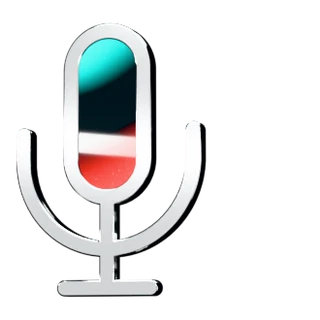
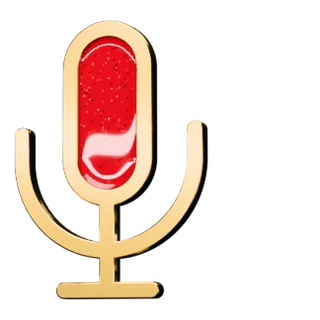
What you'll do: brass soft enamel pins, back to coffee, mic and handshake
The three moment icons are now brass soft enamel pins: one connected
brass piece each, the enamel sitting below the raised lines with a
meniscus, in solid candy teal and red with a fine glitter. The handshake
returns in place of the open door; its outline is closed so each hand is
its own cell. The coffee handle stays open.

Claude-Session: https://claude.ai/code/session_01XKsNEHi8zSBaP9Uzfm5Zkd

Changed region(s): [[0.0312, 0.0625, 0.6562, 0.9375]]

diff --git a/src/styles/join.css b/src/styles/join.css
@@ -138,8 +138,8 @@ html[data-scrolled="true"] .jp-brand img { height: 38px; }
 .jp-col h3 { margin: 0; font-size: 24px; font-weight: 600; line-height: 1.25; letter-spacing: -0.016em; color: var(--t1); }
 .jp-cols.four .jp-col h3 { font-size: 22px; line-height: normal; }
 .jp-col p { margin: 0; font-size: 17px; line-height: 1.55; color: var(--t2); }
-/* What you'll do: three moments told in order, each with its own small enamel
-   pin (a cup, a mic, an open door) in the Labs pin's nickel and cat-eye enamel:
+/* What you'll do: three moments told in order, each with its own small brass
+   soft enamel pin (a cup, a mic, a handshake) in teal and red glitter enamel:
    Cycles renders from the "Moment Icons" scene in LabsPin.blend, in the pin's studio. */
 /* The section's atmosphere: the orb's light behind the row (teal from the
    left, a warm red from the lower right), with the brand grain living only in

diff --git a/README.md b/README.md
@@ -69,7 +69,7 @@ These also need real values:
 
 | Route | What |
 | --- | --- |
-| `/` | The front door: the public Ambassador Program page. The hero is the Ambassador button in live 3D, turning to follow the pointer. It borrows the pin's bundle (`public/join/pin3d.js`: three.js, the pin's studio lighting and renderer, built in the design canvas), hides the pin, and lathes the button from its profile in `LabsPin.blend` in `src/scripts/button3d.ts`, printed with the button's own art (`public/join/button-art.webp`). It loads once the page is idle, on screens 900 px and wider with a mouse and a real GPU; a Cycles still (the "Button Hero" scene) shows on phones, with reduced motion, and without GPU WebGL (`?pin3d=force` overrides that last check for testing). The page is in three chapters, each opened by a full-width cover with its tagline (Spark curiosity, Build community, Inspire confidence). Inside: our why (one manifesto block in the ambassadors' voice, with one effect: it brightens letter by letter, line by line, as you scroll), what you'll do ("Coffee. A mic. A welcome.": three moments told in order, each with its own small enamel pin, a cup, a mic and an open door, rendered in Blender, `public/join/moment-*.webp`), listening and leading (the path, with the button beside the steps on wide screens, then a card on the member community: Supporting and Contributing, either or both), the launch goal with an ambassador's quote, questions, and what it takes. The pin isn't on this page: it's the Contributing Member pin (`/contributing/`), not an ambassador reward. The share image is the button (`public/join/button-share.jpg`). Every "Become an ambassador" goes to `/apply/`. Copy in `content/site/join.json`, media in `public/join/`. `/join/` redirects here. |
+| `/` | The front door: the public Ambassador Program page. The hero is the Ambassador button in live 3D, turning to follow the pointer. It borrows the pin's bundle (`public/join/pin3d.js`: three.js, the pin's studio lighting and renderer, built in the design canvas), hides the pin, and lathes the button from its profile in `LabsPin.blend` in `src/scripts/button3d.ts`, printed with the button's own art (`public/join/button-art.webp`). It loads once the page is idle, on screens 900 px and wider with a mouse and a real GPU; a Cycles still (the "Button Hero" scene) shows on phones, with reduced motion, and without GPU WebGL (`?pin3d=force` overrides that last check for testing). The page is in three chapters, each opened by a full-width cover with its tagline (Spark curiosity, Build community, Inspire confidence). Inside: our why (one manifesto block in the ambassadors' voice, with one effect: it brightens letter by letter, line by line, as you scroll), what you'll do ("Coffee. A mic. A welcome.": three moments told in order, each with its own small brass soft enamel pin, a cup, a mic and a handshake in teal and red glitter enamel, rendered in Blender, `public/join/moment-*.webp`), listening and leading (the path, with the button beside the steps on wide screens, then a card on the member community: Supporting and Contributing, either or both), the launch goal with an ambassador's quote, questions, and what it takes. The pin isn't on this page: it's the Contributing Member pin (`/contributing/`), not an ambassador reward. The share image is the button (`public/join/button-share.jpg`). Every "Become an ambassador" goes to `/apply/`. Copy in `content/site/join.json`, media in `public/join/`. `/join/` redirects here. |
 | `/contributing/` | **Unlisted** (`noindex`, not linked from the program page) until the board approves the levels: the Contributor Community: joining it and working your way up. The hero says so ("Contributor Community") over the Contributing Member pin in live 3D (desktop with a real GPU; Cycles stills otherwise); why here (in person, beginners and experts side by side, learning by doing, local problems); four ways in (make something, take a role, teach what you know, or back it as a Supporting Member), then how the pin works whichever door you take; the way up, one section for the four levels (Contributing Member, Reviewer, Approver, Maintainer), each more workstreams hands-on: on wide screens the stage holds while you scroll and the pin builds level by level, a level picker jumps to any of them, and the pin can be dragged to turn; on phones the picker is tabs over one pin; how recognition happens; active or emeritus; what stays true. Like the program page, it's in three chapters, each opened by a full-width cover on the same macro shots of the pin (`src/components/JoinCover.astro`, with this page's taglines: Start anywhere, Go as far as you like, Yours for good). The 3D is `src/scripts/rankpin.ts` on top of `public/join/pin3d.js`; renders in `public/contributing/`. Copy in `content/site/contributing.json`, from `design/research/recognition-system.md`. `/roles/`, `/pin/` and `/contributors/` redirect here. |
 | `/apply/` | Getting in (orientation), one screen at a time, in the order that gives before it takes: The Labs in three minutes (the film, or the short read the questions are written from), the coordinator's ten-question quiz (eight right to pass, retry any time, a hint on each), the Ambassador Agreement, then your name (first and last, email, ZIP, who brought you in). Ends with **the pass**: "You're in", the button, your name, and "Show this to your coordinator", who hands you the button at the event. Then the signature question, **Who's first?**: one name, and your phone sends the dated invite (the same message as the Conversation step). People without a pre-approved invite see "Almost there" until the coordinator sends them an invite link; opening it confirms them. An invite link pre-fills the form and shows who invited them; a share link (`/apply/#ref=Name`) only fills "Who brought you in?". Copy in `content/site/apply.json`. |
 | `/invite/` | **For coordinators (unlisted, not linked anywhere, `noindex`).** Makes a pre-approved invite link (`/apply/#invite=…`) to copy, text, or email, and keeps a list of invites made on that device. The invitee still passes the quiz and signs the agreement, then they're in straight away. An invite opened by someone who already finished on their own confirms them. Also holds the texts a coordinator sends later ("someone just joined through you"), since the site can't see those moments. Copy in `content/site/invite.json`. |
